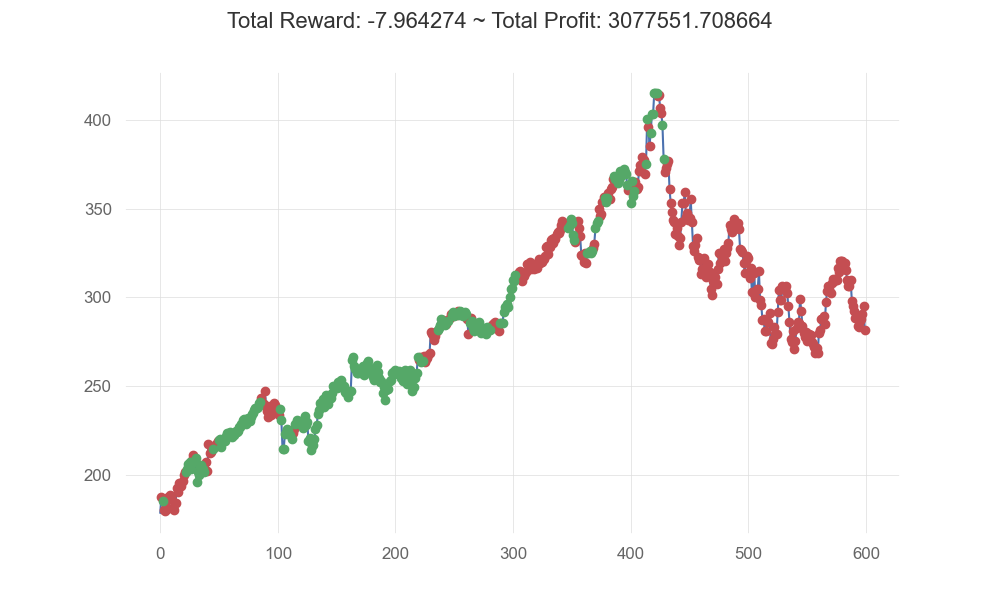
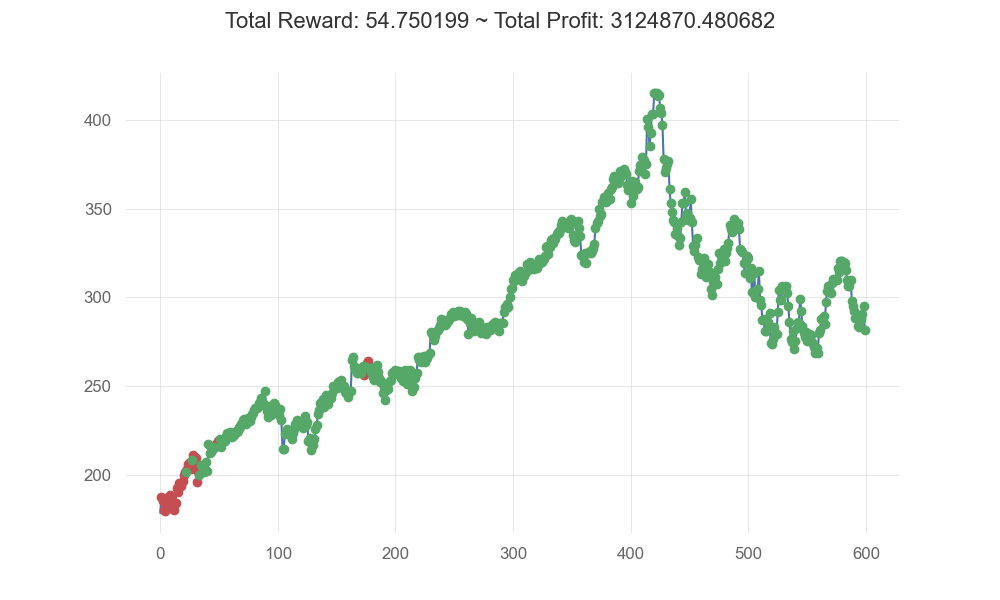
Finished Main Training Loop. Ims provide proof of concept

diff --git a/Main.py b/Main.py
@@ -119,7 +119,7 @@ if __name__ == '__main__':
 
     if args.debug:
         keys = keys[:general_params['debug_len']] #Debug flag application
-        epochs = 1
+        epochs = 100
 
     print('Num Stocks: %d' % len(keys))
 
@@ -133,12 +133,12 @@ if __name__ == '__main__':
 
     bots = MADDPG(134, len(keys) * 134, keys, 2, env_args, args.verbose) #init bots
 
-    mem = MultiAgentReplayBuffer(1000, len(keys) * 134, 134, 2, len(keys), 1)
+    mem = MultiAgentReplayBuffer(100000, len(keys) * 134, 134, 2, len(keys), 1)
 
     total_steps = 0
     total_score = 0
 
-    for i in range(epochs): #Start of main loop
+    for i in range(epochs+1): #Start of main loop
         bots.reset_environments() #Basic loggers and trackers
         score = 0
         dones = [False]*bots.n_agents
